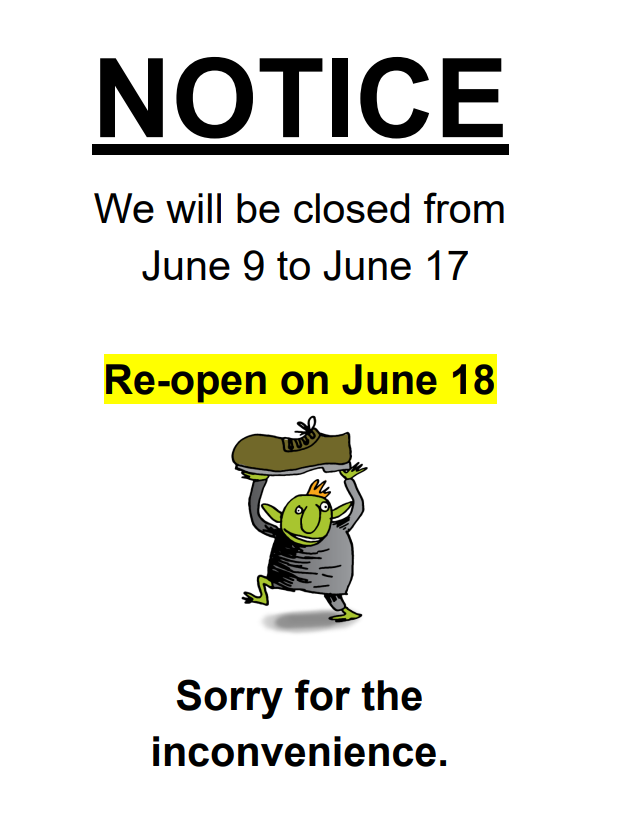
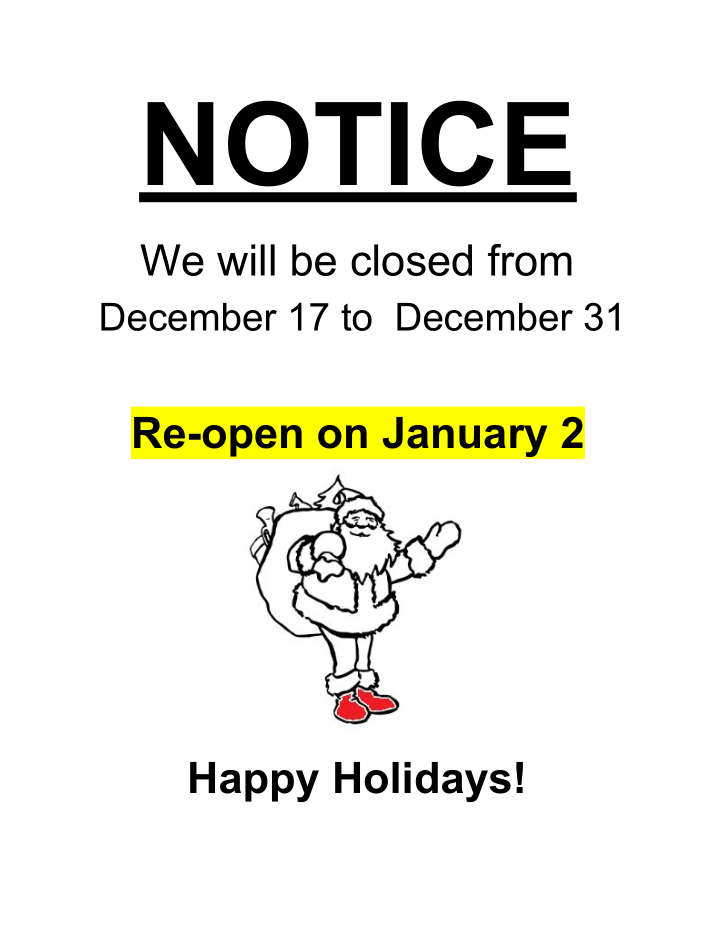
g

diff --git a/websites/Final Project/index2.html b/websites/Final Project/index2.html
@@ -27,7 +27,7 @@
 									<!--<article style="margin-top:30px;">-->
 									<div id="start">
 										<!--Closed image goes here-->
-										<!--<img src="close.png" width="100%" class="" alt="first step into store"/>-->
+										<img src="close.png" width="100%" class="" alt="first step into store"/>
 										<table id="t1">
 											<tr style="background-color: yellow;">
 												<th style="font-size:30px;border-bottom: solid;"><p style="text-decoration: underline;font-size:40px;font-weight:bold;">Hours of Operation</p>
